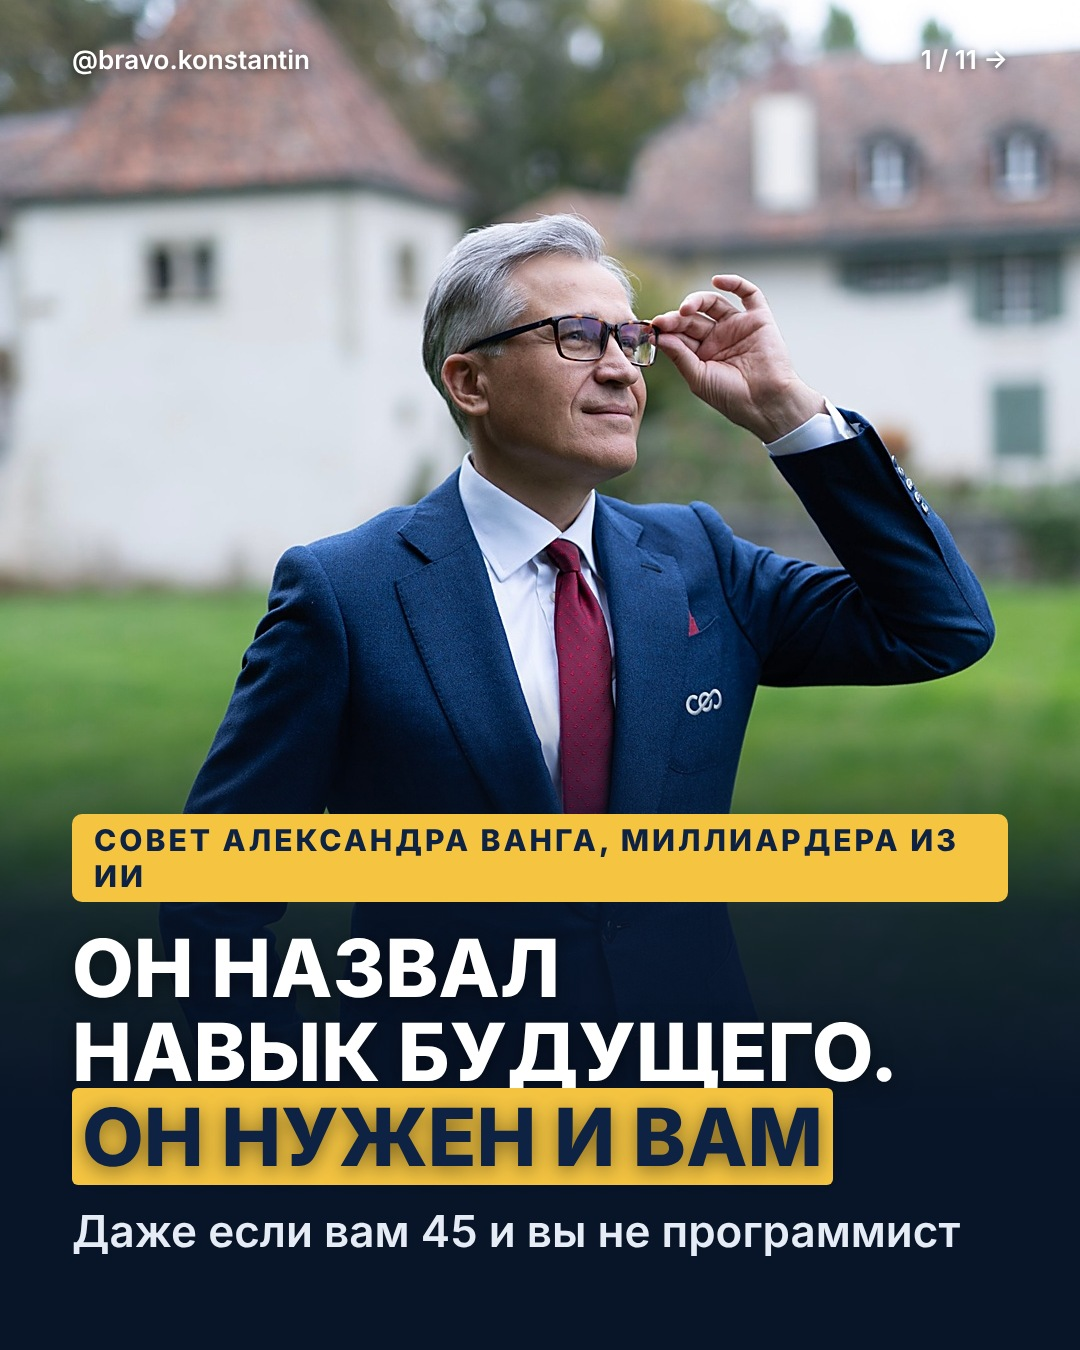
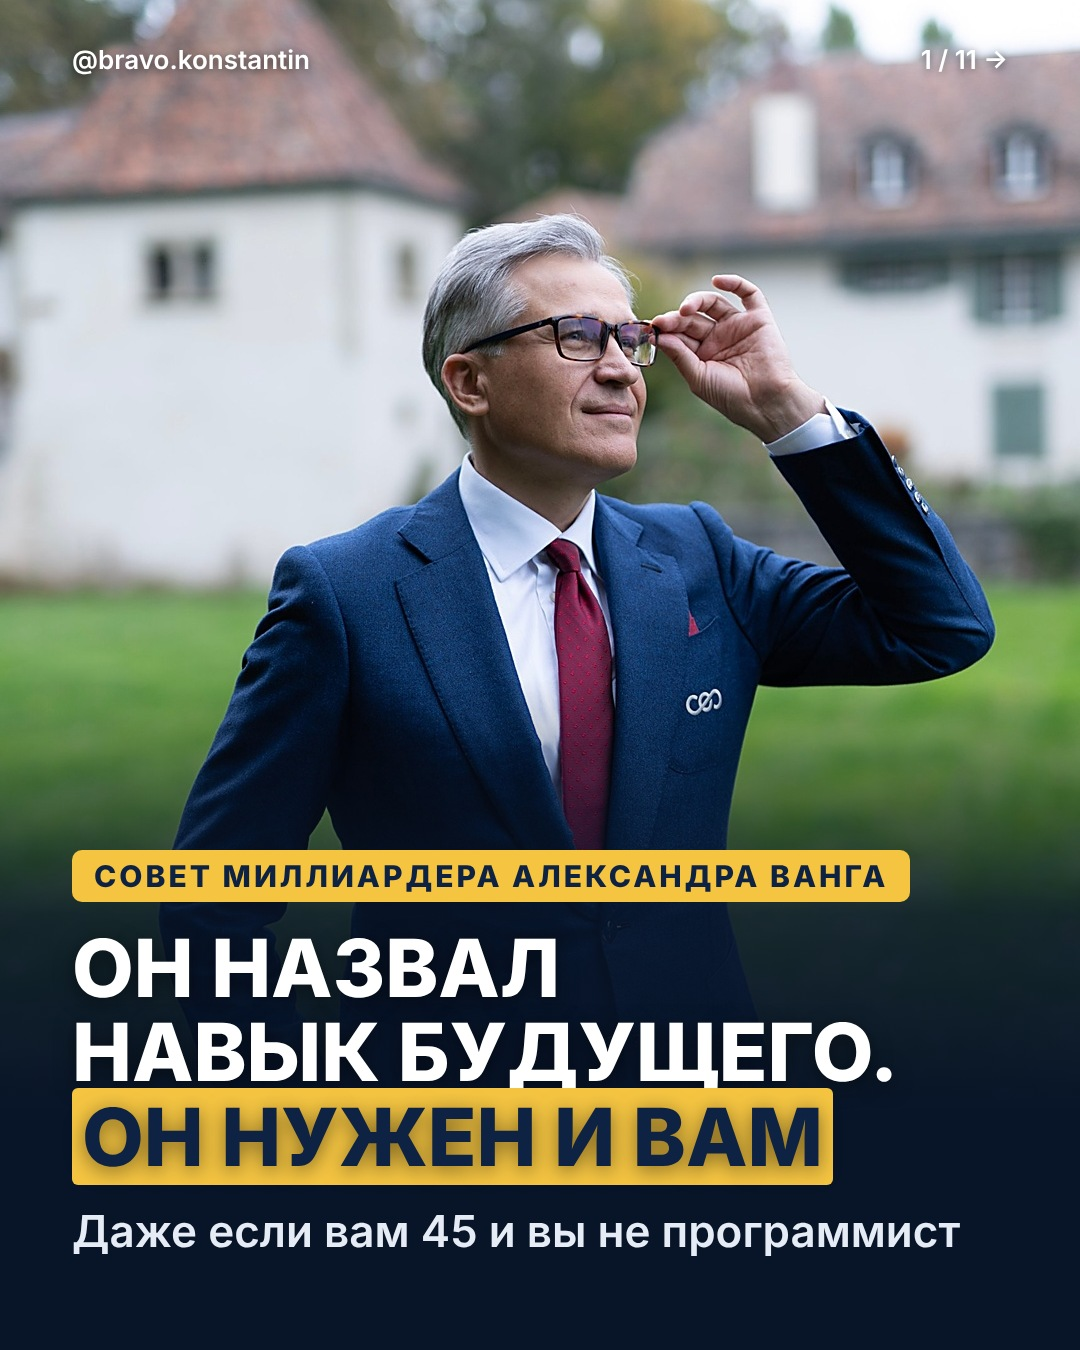
Навык будущего: короче плашка на обложке
Claude-Session: https://claude.ai/code/session_01Q63LAQASQZAPGiGBoPTq7m

Changed region(s): [[0.0611, 0.5911, 0.9472, 0.6844]]

diff --git a/tools/make_navyk_budushchego_opyt.py b/tools/make_navyk_budushchego_opyt.py
@@ -3,7 +3,7 @@ sys.path.insert(0, '/home/claude/work')
 from szlib import *
 
 n = 11; sl = {}
-sl[1] = cover_full(SH + 'c_vang.jpg', 'center 85%', 'Совет Александра Ванга, миллиардера из ИИ',
+sl[1] = cover_full(SH + 'c_vang.jpg', 'center 85%', 'Совет миллиардера Александра Ванга',
                    'Он назвал<br>навык будущего.<br><span class="y" style="white-space:nowrap">Он нужен и вам</span>',
                    'Даже если вам 45 и вы не программист').replace('1 / 13', '1 / 11')
 
